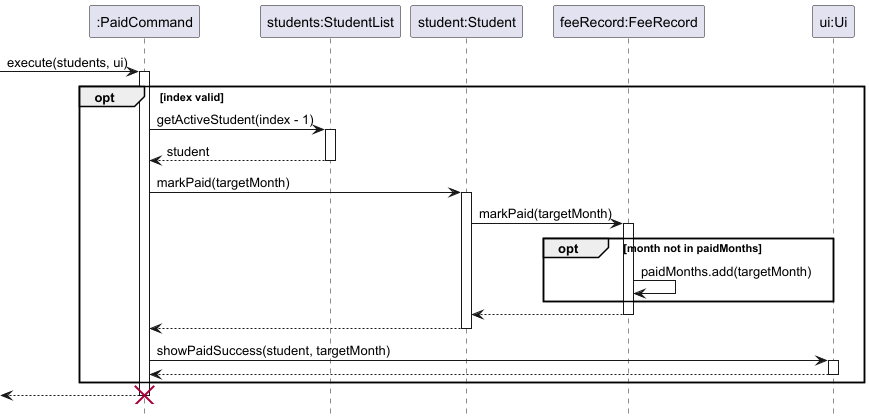
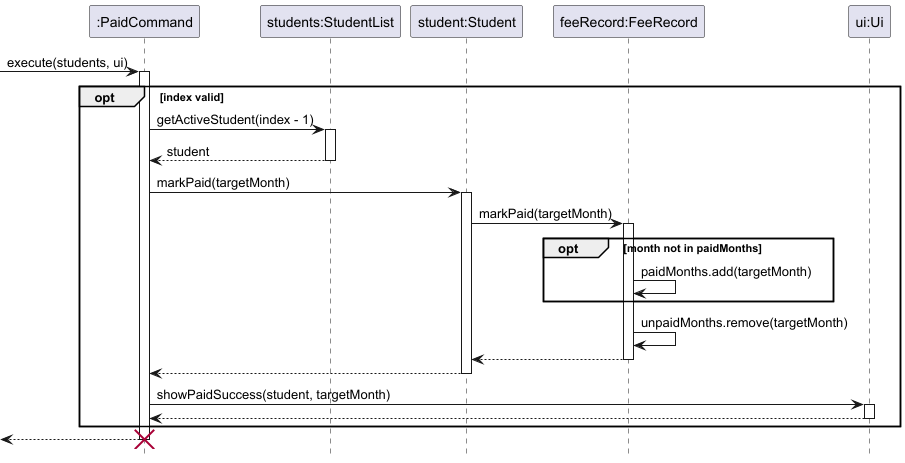
Improve unpaid feature

diff --git a/src/main/java/seedu/tutorswift/FeeRecord.java b/src/main/java/seedu/tutorswift/FeeRecord.java
@@ -8,15 +8,17 @@ import java.util.List;
 import java.time.DayOfWeek;
 
 /**
- * Tracks the per-lesson fee and paid months for a student.
+ * Tracks the per-lesson fee, paid and unpaid months for a student.
  */
 public class FeeRecord {
     private int feePerLesson;
     private final ArrayList<YearMonth> paidMonths;
+    private final ArrayList<YearMonth> unpaidMonths;
 
     public FeeRecord() {
         this.feePerLesson = 0;
         this.paidMonths = new ArrayList<>();
+        this.unpaidMonths = new ArrayList<>();
     }
 
     public int getFeePerLesson() {
@@ -31,59 +33,97 @@ public class FeeRecord {
         return paidMonths;
     }
 
+    public ArrayList<YearMonth> getUnpaidMonths() {
+        return unpaidMonths;
+    }
+
     public boolean isPaidForMonth(YearMonth month) {
         return paidMonths.contains(month);
     }
 
     /**
-     * Marks the given month as paid. Ignores if already marked.
+     * Marks the given month as paid.
+     * Also removes it from unpaidMonths if it was previously marked unpaid.
      */
     public void markPaid(YearMonth month) {
         if (!paidMonths.contains(month)) {
             paidMonths.add(month);
         }
+        unpaidMonths.remove(month);
     }
 
     /**
-     * Removes the given month from paid list. Ignores if not present.
+     * Marks the given month as unpaid explicitly.
+     * Also removes it from paidMonths if it was previously marked paid.
      */
     public void markUnpaid(YearMonth month) {
         paidMonths.remove(month);
+        if (!unpaidMonths.contains(month)) {
+            unpaidMonths.add(month);
+        }
     }
 
     /**
      * Converts fee data to save format.
-     * Example: "50:2026-01,2026-02" or "50:NONE"
      */
     public String toSaveFormat() {
+        String paidPart;
         if (paidMonths.isEmpty()) {
-            return feePerLesson + ":NONE";
-        }
-        StringBuilder sb = new StringBuilder();
-        for (int i = 0; i < paidMonths.size(); i++) {
-            sb.append(paidMonths.get(i).toString());
-            if (i < paidMonths.size() - 1) {
-                sb.append(",");
+            paidPart = "NONE";
+        } else {
+            StringBuilder sb = new StringBuilder();
+            for (int i = 0; i < paidMonths.size(); i++) {
+                sb.append(paidMonths.get(i).toString());
+                if (i < paidMonths.size() - 1) {
+                    sb.append(",");
+                }
             }
+            paidPart = sb.toString();
         }
-        return feePerLesson + ":" + sb;
+
+        String unpaidPart;
+        if (unpaidMonths.isEmpty()) {
+            unpaidPart = "NONE";
+        } else {
+            StringBuilder sb = new StringBuilder();
+            for (int i = 0; i < unpaidMonths.size(); i++) {
+                sb.append(unpaidMonths.get(i).toString());
+                if (i < unpaidMonths.size() - 1) {
+                    sb.append(",");
+                }
+            }
+            unpaidPart = sb.toString();
+        }
+
+        return feePerLesson + ":" + paidPart + ":" + unpaidPart;
     }
 
     /**
      * Parses from save format string.
-     * Example input: "50:2026-01,2026-02" or "50:NONE"
      */
     public static FeeRecord fromSaveFormat(String raw) {
-        String[] splitParts = raw.split(":", 2);
+        String[] splitParts = raw.split(":", 3);
         int fee = Integer.parseInt(splitParts[0]);
         FeeRecord record = new FeeRecord();
         record.setFeePerLesson(fee);
-        if (!splitParts[1].equals("NONE")) {
+
+        if (splitParts.length >= 2 && !splitParts[1].equals("NONE")) {
             String[] months = splitParts[1].split(",");
             for (String m : months) {
                 record.markPaid(YearMonth.parse(m.trim()));
             }
         }
+
+        if (splitParts.length >= 3 && !splitParts[2].equals("NONE")) {
+            String[] months = splitParts[2].split(",");
+            for (String m : months) {
+                YearMonth ym = YearMonth.parse(m.trim());
+                if (!record.unpaidMonths.contains(ym)) {
+                    record.unpaidMonths.add(ym);
+                }
+            }
+        }
+
         return record;
     }
 
@@ -91,20 +131,34 @@ public class FeeRecord {
     public String toString() {
         String feeStr = (feePerLesson == 0) ? "Not set" : "$" + feePerLesson + "/lesson";
 
-        if (paidMonths.isEmpty()) {
+        if (paidMonths.isEmpty() && unpaidMonths.isEmpty()) {
             return "Fee: " + feeStr + " | No payments recorded";
         }
 
-        StringBuilder paidStr = new StringBuilder();
-        for (int i = 0; i < paidMonths.size(); i++) {
-            YearMonth ym = paidMonths.get(i);
-            paidStr.append(ym.getMonth()).append(" ").append(ym.getYear()).append(": [PAID]");
-            if (i < paidMonths.size() - 1) {
-                paidStr.append(", ");
+        ArrayList<YearMonth> allMonths = new ArrayList<>();
+        for (YearMonth ym : paidMonths) {
+            if (!allMonths.contains(ym)) {
+                allMonths.add(ym);
+            }
+        }
+        for (YearMonth ym : unpaidMonths) {
+            if (!allMonths.contains(ym)) {
+                allMonths.add(ym);
+            }
+        }
+        allMonths.sort(null);
+
+        StringBuilder sb = new StringBuilder();
+        for (int i = 0; i < allMonths.size(); i++) {
+            YearMonth ym = allMonths.get(i);
+            String status = paidMonths.contains(ym) ? "[PAID]" : "[UNPAID]";
+            sb.append(ym.getMonth()).append(" ").append(ym.getYear()).append(": ").append(status);
+            if (i < allMonths.size() - 1) {
+                sb.append(", ");
             }
         }
 
-        return "Fee: " + feeStr + " | " + paidStr.toString();
+        return "Fee: " + feeStr + " | " + sb.toString();
     }
 
     /**
